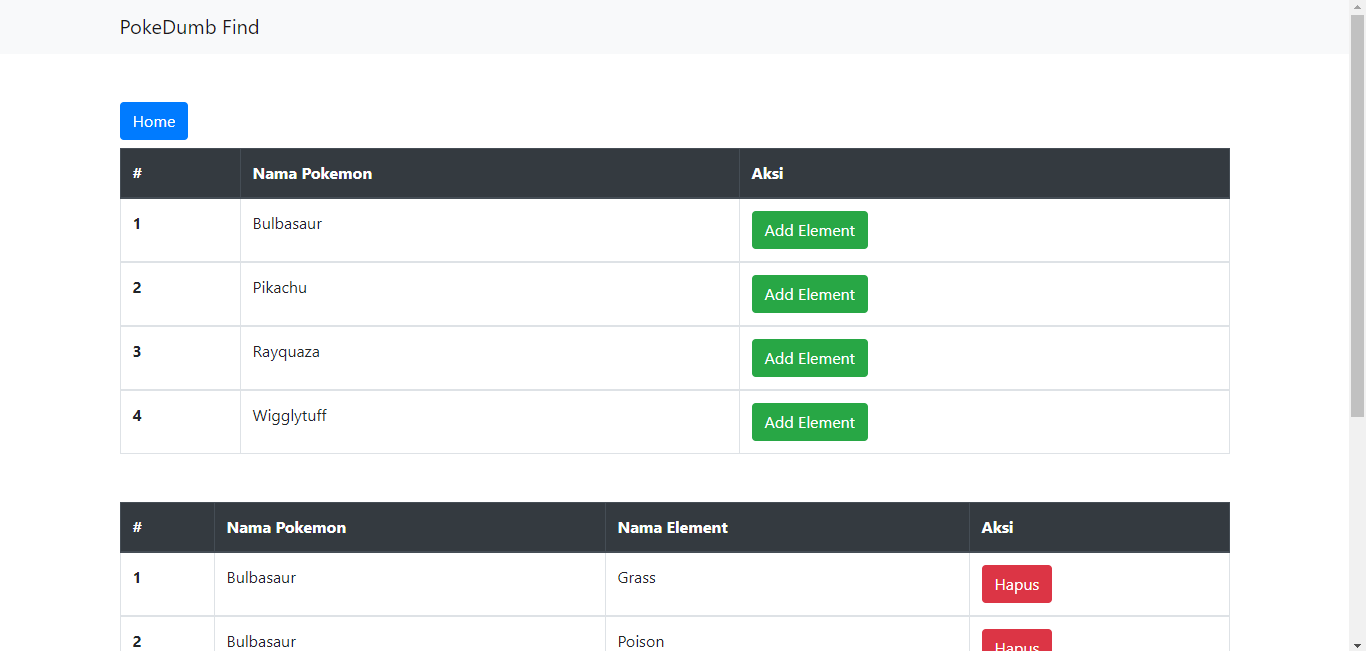
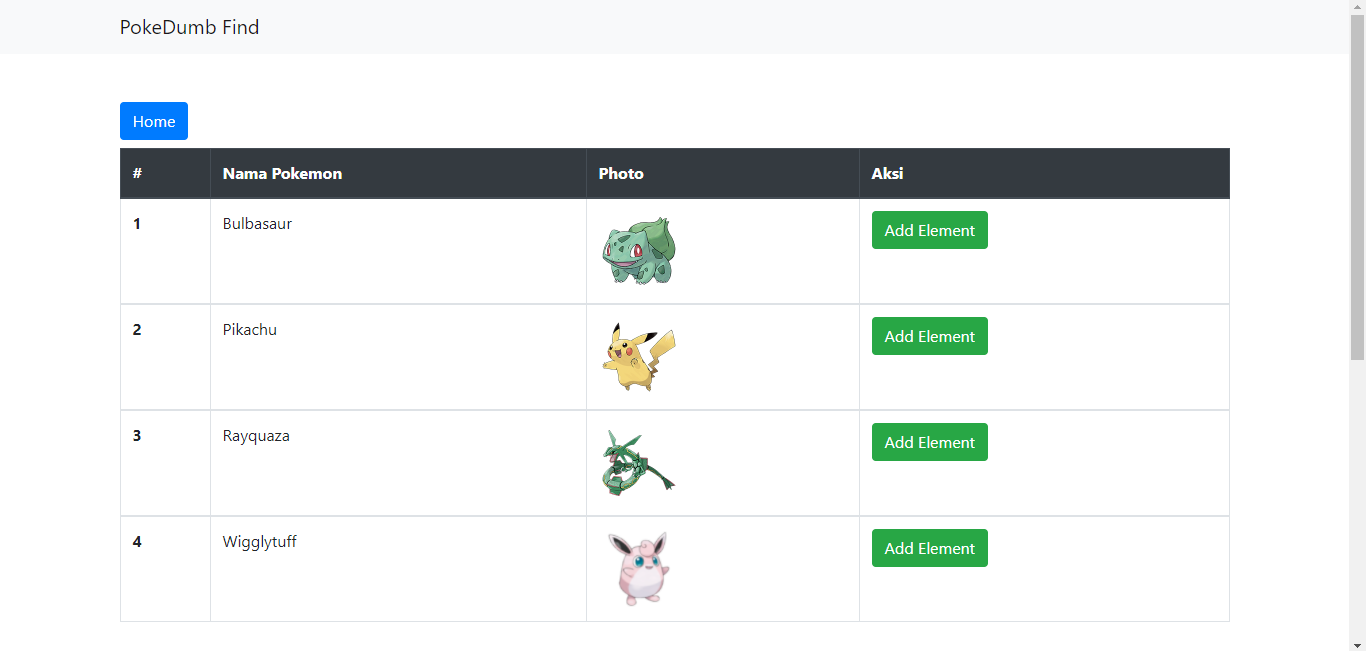
finis link

diff --git a/4b/elemenPokemon.php b/4b/elemenPokemon.php
@@ -61,6 +61,7 @@ if (isset($_POST['tambahPokemonElement'])) {
                 <tr>
                     <th scope="col">#</th>
                     <th scope="col">Nama Pokemon</th>
+                    <th scope="col">Photo</th>
                     <th scope="col">Aksi</th>
                 </tr>
             </thead>
@@ -105,6 +106,7 @@ if (isset($_POST['tambahPokemonElement'])) {
                     <tr>
                         <th scope="row"><?php echo $i++; ?></th>
                         <td><?php echo $row["name"]; ?></td>
+                        <td><img src="asset/<?php echo $row["photo"]; ?>" width="80px" alt=""></td>
                         <td>
                             <a href="#modaltambah<?php echo $row['id_pokemon']; ?>" type="button" class="btn btn-success btn-md" data-toggle="modal" data-target="#modaltambah<?php echo $row['id_pokemon']; ?>">Add Element</a>
                         </td>

diff --git a/4b/pokemon.php b/4b/pokemon.php
@@ -158,7 +158,7 @@ if (isset($_POST["submitubah"])) {
                     <tr>
                         <th scope="row"><?php echo $i++; ?></th>
                         <td><?php echo $row["name"]; ?></td>
-                        <td><?php echo $row["photo"]; ?></td>
+                        <td><img src="asset/<?php echo $row["photo"]; ?>" width="80px" alt=""></td>
                         <td>
                             <a href="#modaltambah<?php echo $row['id_pokemon']; ?>" type="button" class="btn btn-success btn-md" data-toggle="modal" data-target="#modaltambah<?php echo $row['id_pokemon']; ?>">Edit</a> |
                             <a href="hapusPokemon.php?id_pokemon=<?php echo $row['id_pokemon']; ?>" class="btn btn-danger">Hapus</a>

diff --git a/README.md b/README.md
@@ -115,6 +115,8 @@ add pokemon
 add element
 ![alt text](https://github.com/xplacebo/xplacebo-dmy/blob/main/4b/ss/add%20element.png)
 
+![alt text](https://github.com/xplacebo/xplacebo-dmy/blob/main/4b/ss/add%20element%2.png)
+
 view add element
 ![alt text](https://github.com/xplacebo/xplacebo-dmy/blob/main/4b/ss/add%20element%20coba.png)
 
